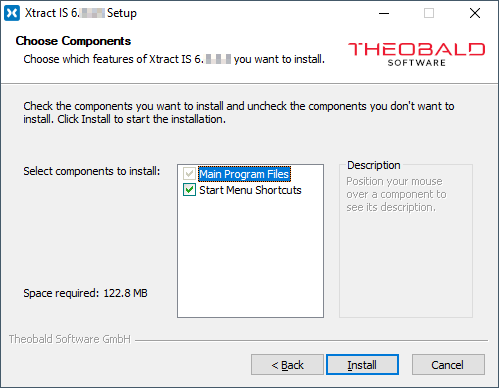
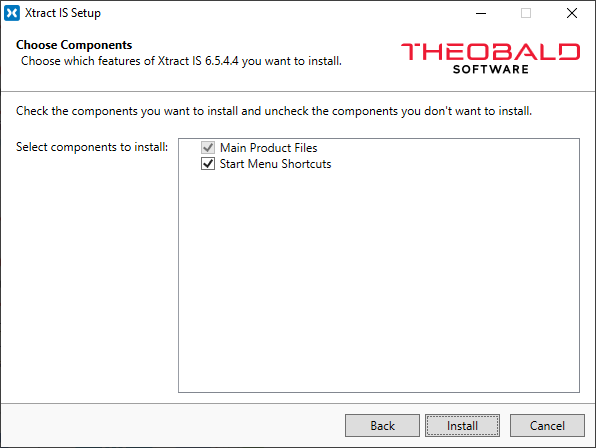
installation changes

diff --git a/content/_en/xtract-is/introduction/installation.md b/content/_en/xtract-is/introduction/installation.md
@@ -14,13 +14,15 @@ old_url: /Xtract-IS-EN/default.aspx?pageid=installation
 Xtract IS is required when developing and running SSIS packages. 
 Make sure to install Xtract IS on both types of machines:
 - On the development machine running Visual Studio / SQL Sever Data Tools. Development can be performed on several machines.
-- On the machine running the SQL server. This machine is used for deploying and running the packages.
+- On the machine running the SQL server, which is used for deploying and running the packages.
 
 <!---text anpassen --->
 ![xis_client_server_generell](/img/content/xis/client_server_architektur_xis_generell.png){:class="img-responsive"}
 
 
 ### Prerequisites
+
+- SSIS / Visual Studio Extentions are installed
 
 {: .box-note }
 **Note:** administrator permissions are required to install Xtract IS.
@@ -35,7 +37,7 @@ In the standard setup, execute the *XtractISSetup.exe* file and follow the instr
 
 ![XIS_Setup](/img/content/xis/xis_setup-exe.png){:class="img-responsive"}
 
-During setup, various DLLs are copied to certain directories to be used by Integration Services. 
+The Xtract IS Setup installs Xtract IS as a plug-in into SSIS.
 
 The license installation procedure is described in the section [Installing the license](./installing-the-license#installing-the-xtract-is-license---xtractislicensejson).
 
@@ -45,39 +47,41 @@ The list below shows several most important files that are placed into the defau
 
 |Filename | Description |
 |:----|:---|
-| ABAP folder | Folder with customer-specific function modules (.txt) corresponding to SAP transport requests (.zip).|
-| InstallXtractIS.exe | Application for installing and registering the Xtract IS components and DLLs on the system.|
+| ABAP folder | Directory with SAP function modules. Read the readme.txt within the directory for more information. See also [SAP Customizing](./sap-customizing) |
+| XtractISSetup.exe | Application for installing and registering the Xtract IS components within SSIS.|
 |XtractISConversionPreparer.exe| Tool, which prepares older version of SSIS packages (containing Xtract IS components) for migration to newer versions of SSIS. See also section [SSIS Migration](./ssis-migration).|
-| xis_version.bat | Version batch file. When starting xis_version.bat, make sure to pass XtractISVersionInfo.exe file from the installation directory as a parameter.|
+| xis_version.bat | Starts the `XtractISVerisonInfo.exe` to display and read the currently installed version.|
 | XtractLicenseManager.exe | Application to manage and view licenses.|
-| Uninstall Xtract IS.lnk | Tool for uninstalling and removing Xtract IS with all its components from your machine. |
-| gac-uninstall.bat | Tool to clear the GAC of all Xtract IS related components.|
+| Uninstall Xtract IS| Tool for uninstalling and removing Xtract IS with all its components from your machine. |
+| gac-uninstall.bat | **For debugging only**. Tool to clear the GAC of all Xtract IS related components in case of installation issues.|
 | Eula_XtractIS.rtf | Document containing the license agreement for the use of the software Xtract IS.|
 | XtractISLicense.json | License file with information about the server, the component and runtime. |
+| UninstallDllLicense.bat| **For older license files**. See [Updating the Xtract.License.dll to XtractISLicense.json](./installing-the-license#updating-the-xtractlicensedll-to-xtractislicensejson)|
 
 
 
-### Silent Setup
+### Unattended Installation - Silent Setup
 
 {: .box-note }
 **Note:** All switches are case sensitive.
 
-The setup program can also be started without the GUI. This type of setup  program execution is called "silent setup". If you want to execute the silent setup, use the switch */S* . <br>
-To set the installation path, use the switch */D*.
+The setup program and the license installer can also be started without the GUI in a so called "silent setup" way.
 
-You can find more settings for the setup on the following website: [Command Line Usage](http://nsis.sourceforge.net/Docs/Chapter3.html#3.2.1).
+#### XtractISSetup.exe
+To execute the silent setup, use the switch *--no-gui* . <br>
+![Silent](/img/content/xis/silent-setup-cmd.png){:class="img-responsive"}
 
-#### Blocking, Exit-Codes and Authorization
+#### Waiting Switch
 
-Using the */w* switch at the beginning of the statement provides the following functions:
-- You can let the setup program or the license manager block the calling process (e.g., a batch) until the installation is finished. 
-- You can receive a correct exit code to check the successful and correct installation finish
+As both programs `XtractISSetup.exe` and `XtractLicenseManager.exe` are windows applications they return immediately when called from the command line. 
+To wait until the setup or the installation is complete use the start command with the */wait* switch. Get more details on Windows Commands in the official [Microsoft Documentation](https://docs.microsoft.com/en-us/windows-server/administration/windows-commands/start).
+
 
 **Examples:**
 ```
-start /w XtractISSetup.exe /S
-start /w XtractLicenseManager.exe "My License\XtractIS.License.json"
-start /w XtractLicenseManager.exe XtractIS.License.json
+start /wait XtractISSetup.exe --no-gui
+start /wait XtractLicenseManager.exe "C:\temp\Xtract IS\XtractIS.License.json"
+
 ```
 
 ### Displaying the Xtract IS components within SSIS
@@ -85,7 +89,7 @@ After a successful installation of the Xtract IS, the Xtract IS components are a
 
 ![XIS_SSIS_Toolbox](/img/content/XIS_SSIS_Toolbox.png){:class="img-responsive"}
 
-{: .box-warning }
+<!---{: .box-warning }
 **Warning! Xtract IS components not visible**<br> With the current version of the SSDT for VS 2015, *SQL Server vNext* or *SQL Server 2017* are selected by default as the target environment for the deployment network of SSIS projects.  With this setting, the Xtract IS components are not visible in the SSIS toolbox. <br> Change the target environment for the deployment to SQL Server 2016 to display the Xtract IS components in the toolbox.
 
-![XIS_deployment_target_version_vNext](/img/content/VS_Deployment_Target.png){:class="img-responsive"}
+![XIS_deployment_target_version_vNext](/img/content/VS_Deployment_Target.png){:class="img-responsive"}--->
